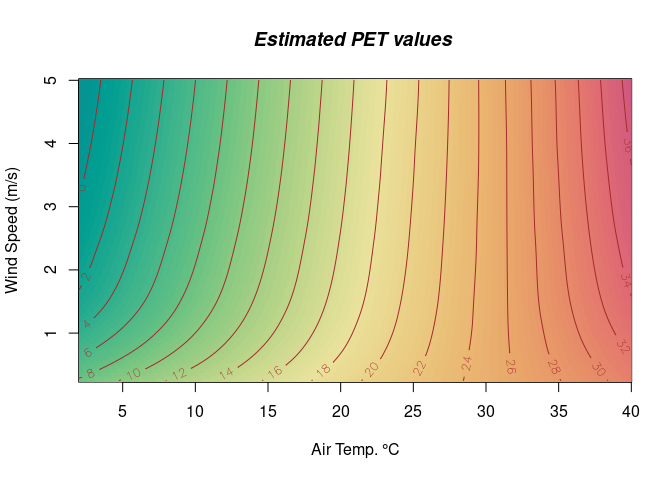
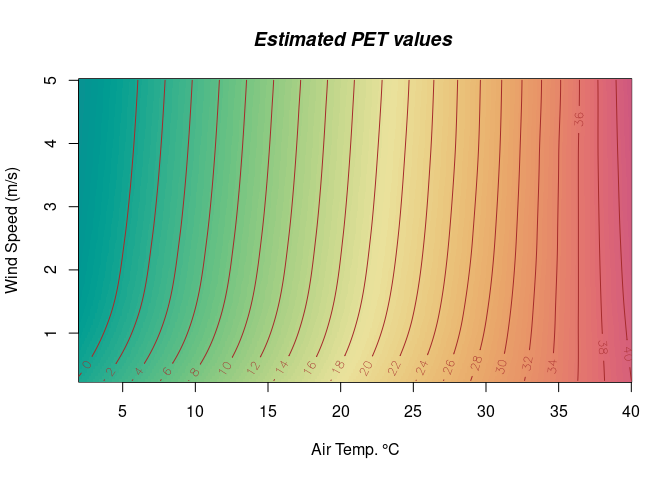
readme

diff --git a/src/rayshade.cpp b/src/rayshade.cpp
@@ -181,7 +181,7 @@ NumericMatrix rayshade_cpp(double sunangle,
   bool anyfound;
  // double maxheight = max(heightmap);
   char str[100];
-  Rcout << " STARTING HERE nrows=" << pointcloud.nrow() << " cols=" << pointcloud.ncol() << std::endl;
+  // Rcout << " STARTING HERE nrows=" << pointcloud.nrow() << " cols=" << pointcloud.ncol() << std::endl;
   //sprintf(str, "Raytracing with MaxDist=%.4f MaxHeight=%.4f  [:bar] ETA: :eta", maxdist, maxheight);
   //Rprintf(str);
   //RProgress::RProgress pb( str );

diff --git a/README.md b/README.md
@@ -93,8 +93,10 @@ values.dry <- expand.grid(
             windSpeed = wind_speed_values
           )
 
-values.dry$PET <- rPET::PETcorrected( Tair = values.dry$Tair,  
-              v_air=values.dry$windSpeed, rh=10 )
+values.dry$PET <- rPET::PETcorrected( Tair = values.dry$Tair,
+                                      Tmrt = values.dry$Tair,  
+                                      v_air=values.dry$windSpeed, 
+                                      rh=10 )
  
 topo.loess <- loess (PET ~ Tair * windSpeed, values.dry, degree = 2, span = 0.2)
 x <- seq (min (values.dry$Tair), max (values.dry$Tair), .05)
@@ -121,23 +123,84 @@ NB: what changes is the Mean Radiant Temperature, which is estimated by
 using 3D data.
 
 ``` r
-las.file <- "data-raw/voxel_villabolasco_light.laz"
+## The LAS/LAZ file where the XYZ points are read
+# las.file <- "data-raw/voxel_villabolasco_light.laz"
+# dtm.file <- "data-raw/bolasco_DTM_1m.tif"
+## reading  data from the LAS/LAZ file
+# xyz<-  lidR::readLAS(las.file, select = "XYZ")
+## convert LAS data to XYZ table
+# PointCloud3D<-xyz@data
+## reading DTM
+# heightraster <- terra::rast(dtm.file)
+
+
+## In this example we will use embedded data in the GitHub page
+## of the package.
 e<-environment(rPET::prepareData)
 if(is.null(e$dataenv) ||
    !is.data.frame(e$dataenv$pointcloud)||
    !inherits(e$dataenv$dtm, "PackedSpatRaster") ){
   ret<-rPET::prepareData()
-  if(!ret) return(NULL)
+  if(!ret) {
+    warning("Could not download data!")
+    }
 }
-```
+## Grab the point cloud from the environment
+PointCloud3D<-e$dataenv$pointcloud
+heightraster<- terra::unwrap(e$dataenv$dtm)
 
-    ## Downloading Villa Bolasco Data using your Internet, should take less than a minute...
+sunangle = 135 # South East direction of azimuth in degrees
+sunaltitude = 45 # 45° from the horizon 
+##calculate the direct/diffuse fraction using dithered shade
+## fraction
+ 
+rs <- rPET::ray_shade(heightraster, 
+                      PointCloud3D, 
+                      sunangle = sunangle,
+                      zscale = 1,   
+                      sunaltitude =  sunaltitude, 
+                      makeVoxelGrid = FALSE, progbar = FALSE,
+                      lambert = TRUE)
 
-``` r
-## read LAS data
-xyz<-  lidR::readLAS(las.file, select = "XYZ")
-## convert LAS data to XYZ table
-PointCloud3D<-xyz@data
+# rs %>% rayshader::plot_map()
+## convert matrix to a terra raster object
+rast.shade <- rPET::matrix2raster(rs) 
+## get non-NA cells' ids 
+cell.ids <-terra::cells(rast.shade)
+## get non-NA cell values 
+values<-  terra::values(rast.shade, na.rm=TRUE)
+
+## to drastically increase speed, we classify 
+## direct/diffuse fraction in 100 maximum classes
+## from 0 to 1 by 0.01 steps  
+dvalues <- round(values[,1], 2)
+udvalues <- unique(dvalues)
+## we estimate the mean radiant temperature for the possible
+## fraction categories
+mrtv <- mrt(air_temperature = 30, 
+            sunaltitude = sunaltitude, 
+            solar_radiation_wm2 = 100, 
+            Fd = udvalues)
+
+## we estimate the PET for the fraction categories
+pet.low.wind <- rPET::PETcorrected(Tair = 30, Tmrt =mrtv,
+                         v_air = 0.1, rh = 50 )
+## moderate wind 15 km/h -
+pet.med.wind <- rPET::PETcorrected(Tair = 30, Tmrt =mrtv,
+                         v_air = 4, rh = 50 )
+## we map pet values to all non-NA pixels
+all.pet.values.low <- pet.low.wind[ match(dvalues, udvalues) ]
+all.pet.values.med <- pet.med.wind[ match(dvalues, udvalues) ]
+petraster <- c(heightraster, heightraster)
+names(petraster) <- c("low", "med")
+## we assign PET values to cells in the heightraster
+petraster$low[cell.ids] <- all.pet.values.low
+petraster$med[cell.ids] <- all.pet.values.med
+range <-   quantile(petraster[], c(0.1,0.9), na.rm=TRUE)
+# petraster <- terra::clamp(petraster, lower=range[[1]], upper=range[[2]])
+terra::plot(petraster, col=viridis::turbo(12), 
+            main=c("PET 0.1 m/s wind", "PET 5 m/s wind") )
+title( "30 °C - 50% RH ", cex.main = 1.2,   outer=F )
 ```
 
 <label>Below an animation of mapped comfort index changing over a hot
